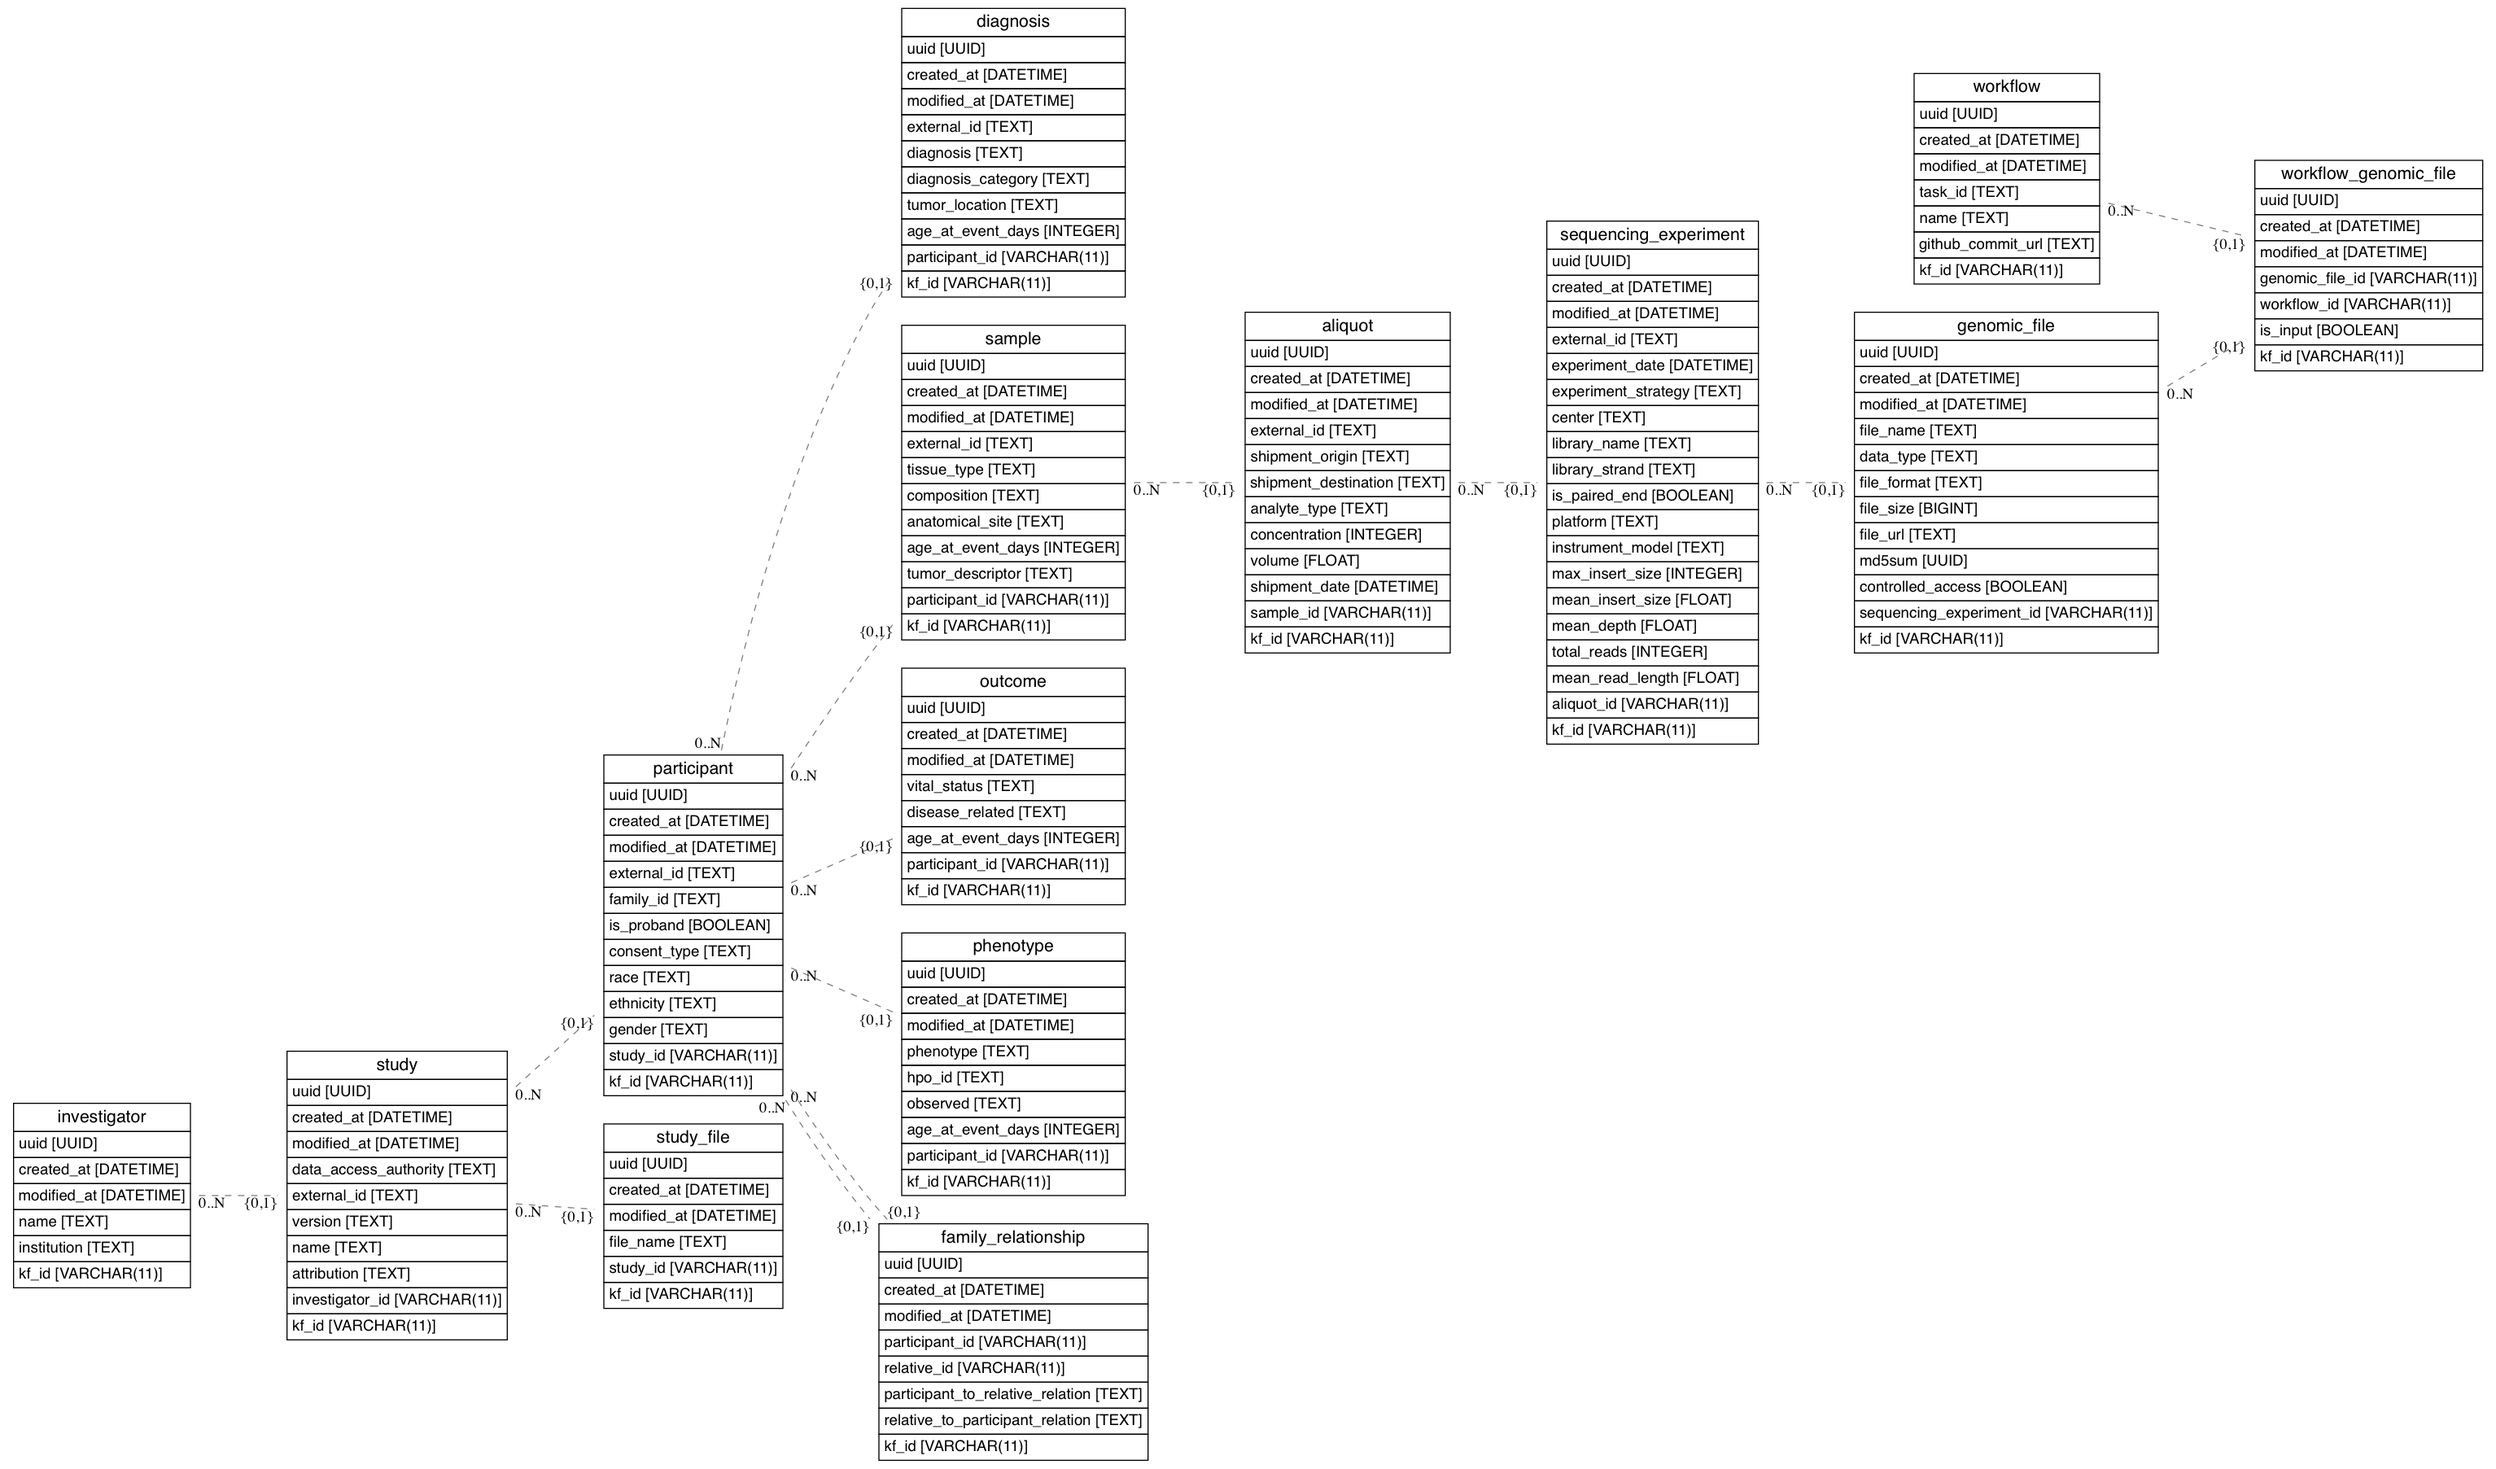
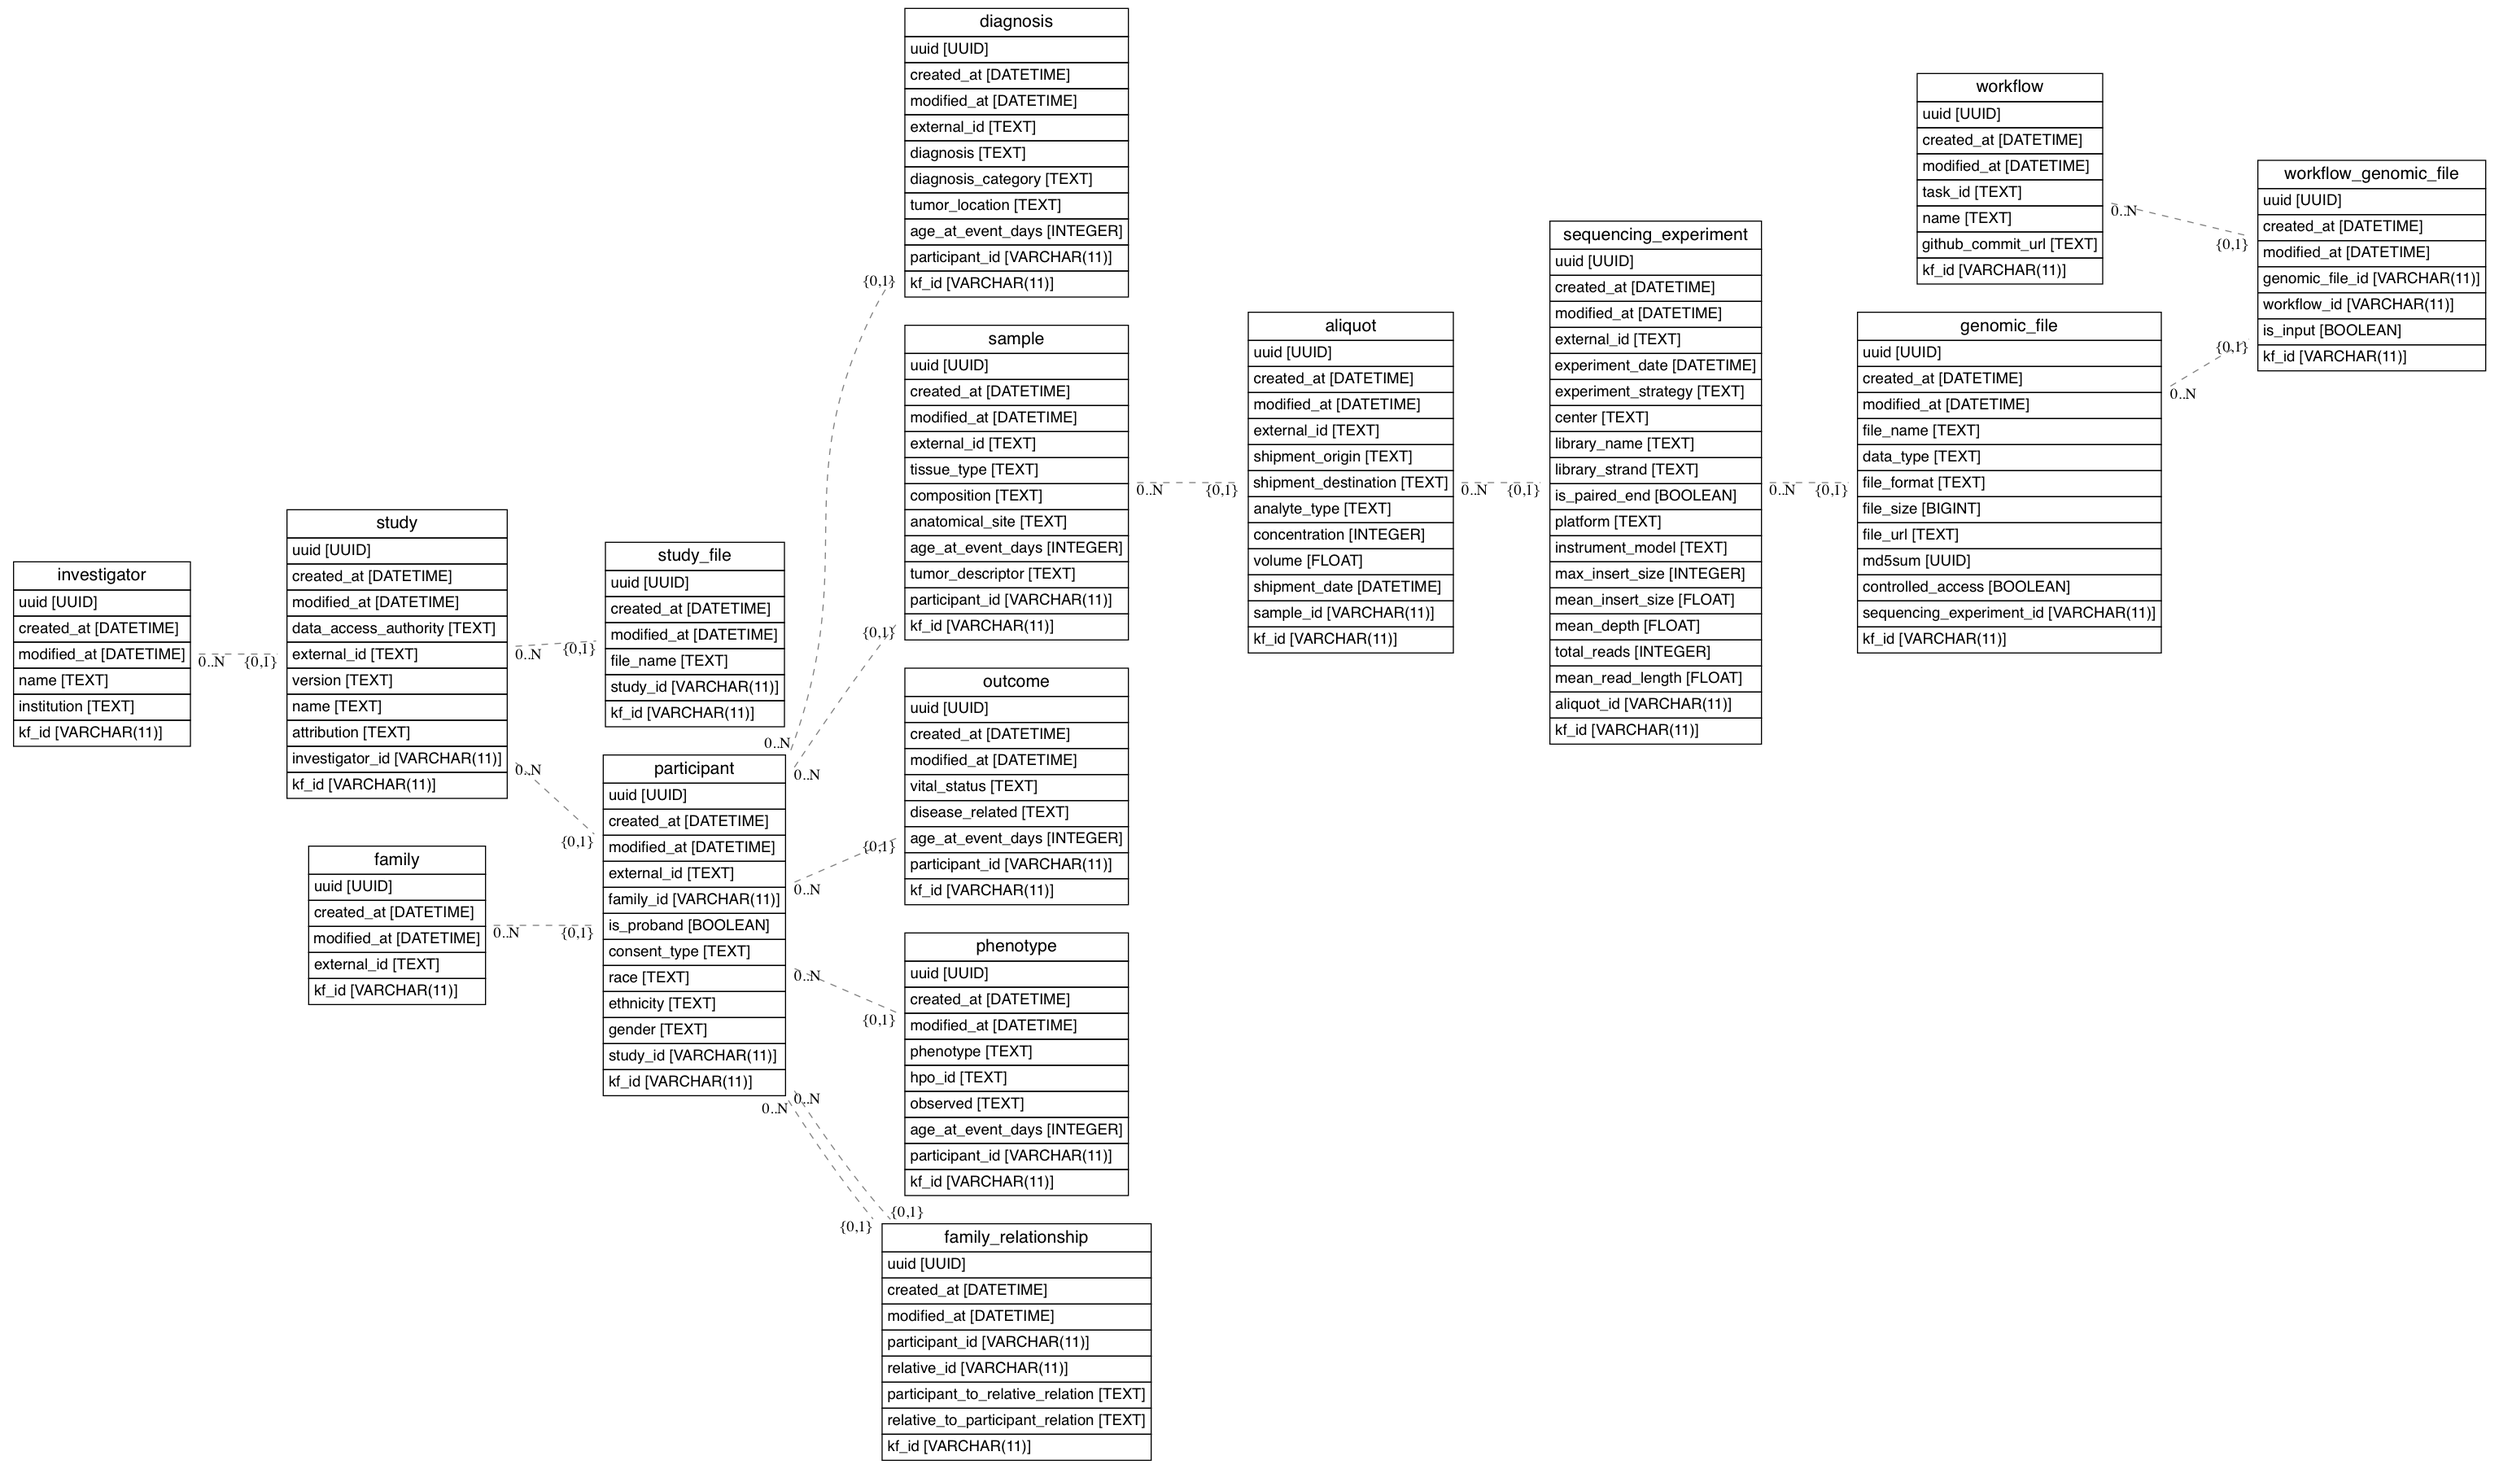
:card_file_box: Update erd and add migration

diff --git a/migrations/versions/a10ebb4c43c7_.py b/migrations/versions/a10ebb4c43c7_.py
@@ -1,0 +1,40 @@
+"""
+Add family model
+
+Revision ID: a10ebb4c43c7
+Revises: b2aab064a0b6
+Create Date: 2018-04-04 16:02:43.132088
+
+"""
+from alembic import op
+import sqlalchemy as sa
+from sqlalchemy.dialects import postgresql
+import dataservice
+
+# revision identifiers, used by Alembic.
+revision = 'a10ebb4c43c7'
+down_revision = 'b2aab064a0b6'
+branch_labels = None
+depends_on = None
+
+
+def upgrade():
+    # ### commands auto generated by Alembic - please adjust! ###
+    op.create_table('family',
+    sa.Column('uuid', postgresql.UUID(), nullable=True),
+    sa.Column('created_at', sa.DateTime(), nullable=True),
+    sa.Column('modified_at', sa.DateTime(), nullable=True),
+    sa.Column('external_id', sa.Text(), nullable=True),
+    sa.Column('kf_id', dataservice.api.common.model.KfId(length=11), nullable=False),
+    sa.PrimaryKeyConstraint('kf_id'),
+    sa.UniqueConstraint('uuid')
+    )
+    op.create_foreign_key(None, 'participant', 'family', ['family_id'], ['kf_id'])
+    # ### end Alembic commands ###
+
+
+def downgrade():
+    # ### commands auto generated by Alembic - please adjust! ###
+    op.drop_constraint(None, 'participant', type_='foreignkey')
+    op.drop_table('family')
+    # ### end Alembic commands ###
